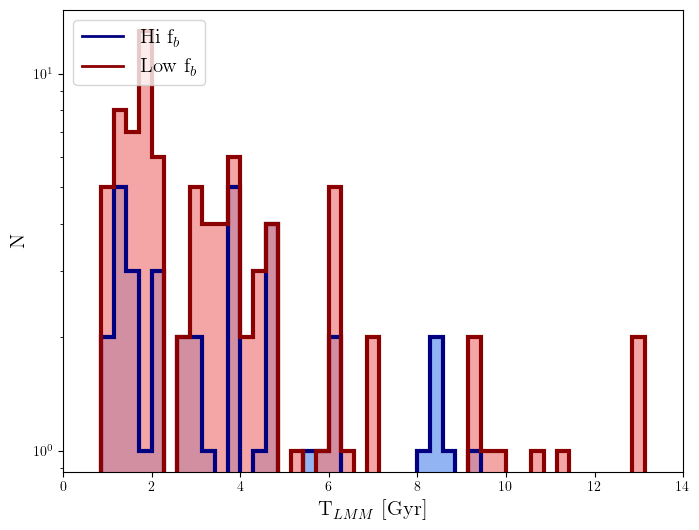
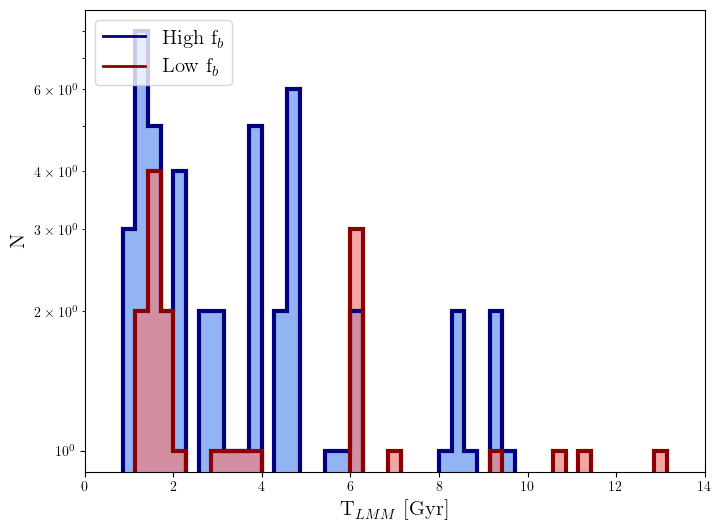
Updated LMMDistribution.Plot.py

diff --git a/Code/LMMDistribution.Plot.py b/Code/LMMDistribution.Plot.py
@@ -37,6 +37,7 @@ for sim in ['cptmarvel','elektra','storm','rogue']:
         FbGE[i] = (1.4*halo['MHI']+halo['MHII'])/halo['Mvir']
         FbGI[i] = (1.4*halo['.1MHI']+halo['.1MHII'])/halo['.1Mvir']
         FbGC[i] = (1.4*halo['.01MHI']+halo['.01MHII'])/halo['.01Mvir']
+        if T[i]>12: print(f'{sim}-{h}: {T[i]} , {FbE[i]}')
         i+=1
 
 loc,typ = ['.Entire','.Inner','.Center'],['','.Observed','.Gas','.Stellar']
@@ -46,16 +47,18 @@ time_bins = np.linspace(0,14,50)
 for l in np.arange(len(loc)):
     for t in np.arange(len(typ)):
         d = data[l][t]
-        bound = np.mean(d)
-        Hi = T[d>bound]
-        Low = T[d<bound]
+        mid = np.mean(d)
+        lower = np.percentile(d,25)
+        upper = np.percentile(d,75)
+        Hi = T[d>upper]
+        Low = T[d<lower]
 
         f,ax = plt.subplots(1,1,figsize=(8,6))
         ax.set_xlabel(r'T$_{LMM}$ [Gyr]',fontsize=15)
         ax.set_ylabel('N',fontsize=15)
         ax.set_xlim([0,14])
         ax.semilogy()
-        ax.plot(0,0,color='navy',linewidth=2,label=r'Hi f$_b$')
+        ax.plot(0,0,color='navy',linewidth=2,label=r'High f$_b$')
         ax.plot(0,0,color='darkred',linewidth=2,label=r'Low f$_b$')
         ax.legend(loc='upper left',prop={'size':15})
 
